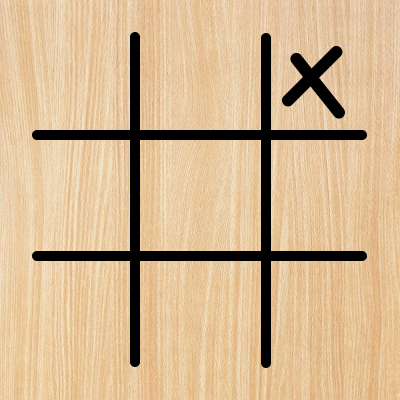
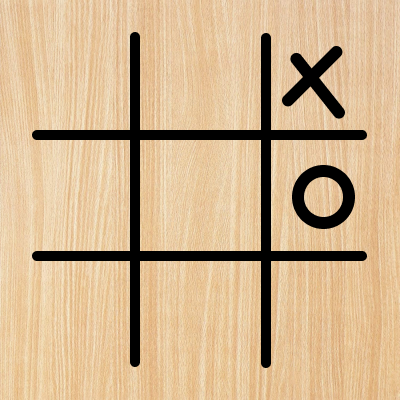
Refreshed output

Changed region(s): [[0.72, 0.39, 0.9, 0.57]]

diff --git a/README.md b/README.md
@@ -8,14 +8,14 @@ With this repo you can play TicTacToe with other viewers of this repo! Enjoy!
 
 This game started on 1/30/2022, 8:12:24 PM
 
-![alt text](https://github.com/donadev/TicTacToe/blob/main/games/current/cachebypass/1643574196978.png?raw=true)
+![alt text](https://github.com/donadev/TicTacToe/blob/main/games/current/cachebypass/1643574256000.png?raw=true)
 
 ### Play now
-To execute the next move, click [here](https://github.com/donadev/TicTacToe/issues/new?title=o%20%24&body=%0A%23%23%23%20Instructions%0A%0APlease%20replace%20in%20the%20title%20the%20char%20%22%24%22%20with%20the%20index%20of%20your%20move%2C%20following%20the%20schema%3A%0A%0A%7C%201%20%7C%202%20%7C%20x%20%20%7C%0A%7C%20%3A-%3A%20%7C%20%3A-%3A%20%7C%20%3A-%3A%20%7C%0A%7C%204%20%7C%205%20%7C%206%20%7C%0A%7C%207%20%7C%208%20%7C%209%20%7C%0A%0A%23%23%23%20Rules%0A-%20if%20you%20break%20the%20game%20rules%2C%20the%20move%20will%20not%20be%20applied.%0A-%20If%20the%20move%20is%20authorized%2C%20it%20will%20display%20with%20your%20name%20on%20the%20readme%20in%20approx%2020%20seconds.%0A)
+To execute the next move, click [here](https://github.com/donadev/TicTacToe/issues/new?title=x%20%24&body=%0A%23%23%23%20Instructions%0A%0APlease%20replace%20in%20the%20title%20the%20char%20%22%24%22%20with%20the%20index%20of%20your%20move%2C%20following%20the%20schema%3A%0A%0A%7C%201%20%7C%202%20%7C%20x%20%20%7C%0A%7C%20%3A-%3A%20%7C%20%3A-%3A%20%7C%20%3A-%3A%20%7C%0A%7C%204%20%7C%205%20%7C%20o%20%7C%0A%7C%207%20%7C%208%20%7C%209%20%7C%0A%0A%23%23%23%20Rules%0A-%20if%20you%20break%20the%20game%20rules%2C%20the%20move%20will%20not%20be%20applied.%0A-%20If%20the%20move%20is%20authorized%2C%20it%20will%20display%20with%20your%20name%20on%20the%20readme%20in%20approx%2020%20seconds.%0A)
 
 ### Users playing
 The following is a list of every user that has played this game
-- Team ⭕ : No users
+- Team ⭕ : [donadev](https://github.com/donadev)
 - Team ❌ : [donadev](https://github.com/donadev)
 
 

diff --git a/games/current/README.md b/games/current/README.md
@@ -2,14 +2,14 @@
 
 This game started on 1/30/2022, 8:12:24 PM
 
-![alt text](https://github.com/donadev/TicTacToe/blob/main/games/current/cachebypass/1643574196978.png?raw=true)
+![alt text](https://github.com/donadev/TicTacToe/blob/main/games/current/cachebypass/1643574256000.png?raw=true)
 
 ### Play now
-To execute the next move, click [here](https://github.com/donadev/TicTacToe/issues/new?title=o%20%24&body=%0A%23%23%23%20Instructions%0A%0APlease%20replace%20in%20the%20title%20the%20char%20%22%24%22%20with%20the%20index%20of%20your%20move%2C%20following%20the%20schema%3A%0A%0A%7C%201%20%7C%202%20%7C%20x%20%20%7C%0A%7C%20%3A-%3A%20%7C%20%3A-%3A%20%7C%20%3A-%3A%20%7C%0A%7C%204%20%7C%205%20%7C%206%20%7C%0A%7C%207%20%7C%208%20%7C%209%20%7C%0A%0A%23%23%23%20Rules%0A-%20if%20you%20break%20the%20game%20rules%2C%20the%20move%20will%20not%20be%20applied.%0A-%20If%20the%20move%20is%20authorized%2C%20it%20will%20display%20with%20your%20name%20on%20the%20readme%20in%20approx%2020%20seconds.%0A)
+To execute the next move, click [here](https://github.com/donadev/TicTacToe/issues/new?title=x%20%24&body=%0A%23%23%23%20Instructions%0A%0APlease%20replace%20in%20the%20title%20the%20char%20%22%24%22%20with%20the%20index%20of%20your%20move%2C%20following%20the%20schema%3A%0A%0A%7C%201%20%7C%202%20%7C%20x%20%20%7C%0A%7C%20%3A-%3A%20%7C%20%3A-%3A%20%7C%20%3A-%3A%20%7C%0A%7C%204%20%7C%205%20%7C%20o%20%7C%0A%7C%207%20%7C%208%20%7C%209%20%7C%0A%0A%23%23%23%20Rules%0A-%20if%20you%20break%20the%20game%20rules%2C%20the%20move%20will%20not%20be%20applied.%0A-%20If%20the%20move%20is%20authorized%2C%20it%20will%20display%20with%20your%20name%20on%20the%20readme%20in%20approx%2020%20seconds.%0A)
 
 ### Users playing
 The following is a list of every user that has played this game
-- Team ⭕ : No users
+- Team ⭕ : [donadev](https://github.com/donadev)
 - Team ❌ : [donadev](https://github.com/donadev)
 
 
